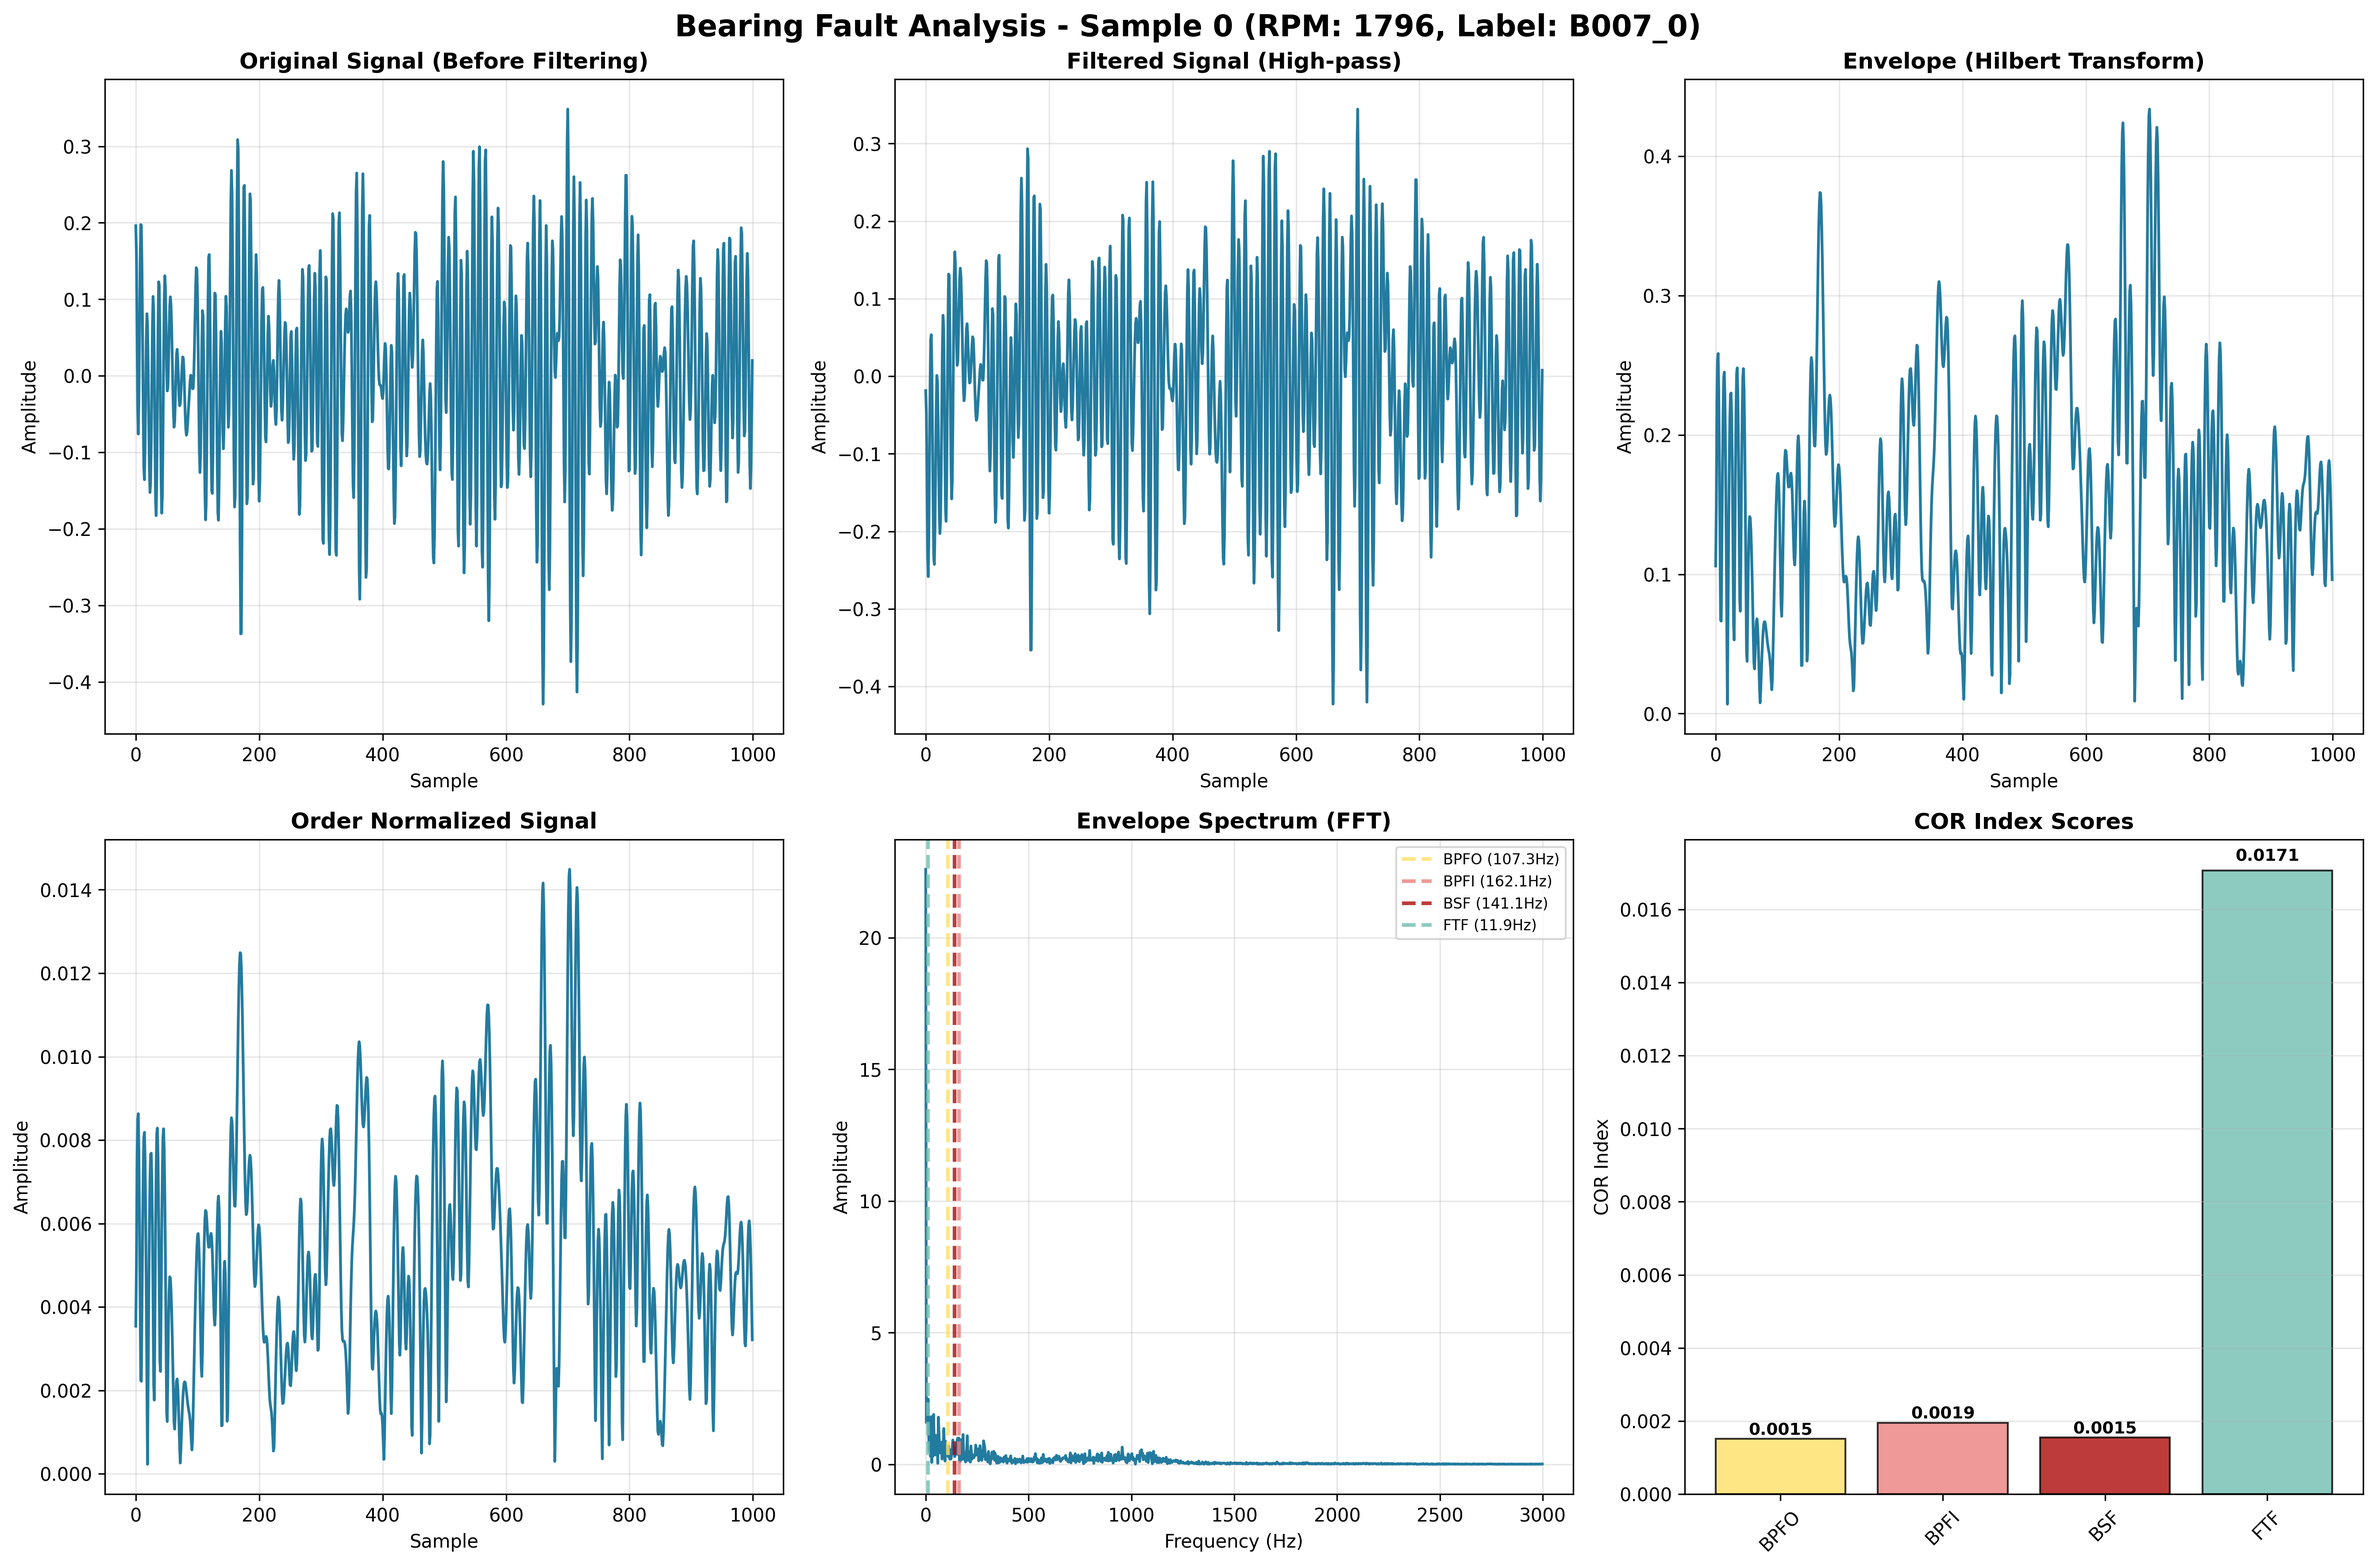
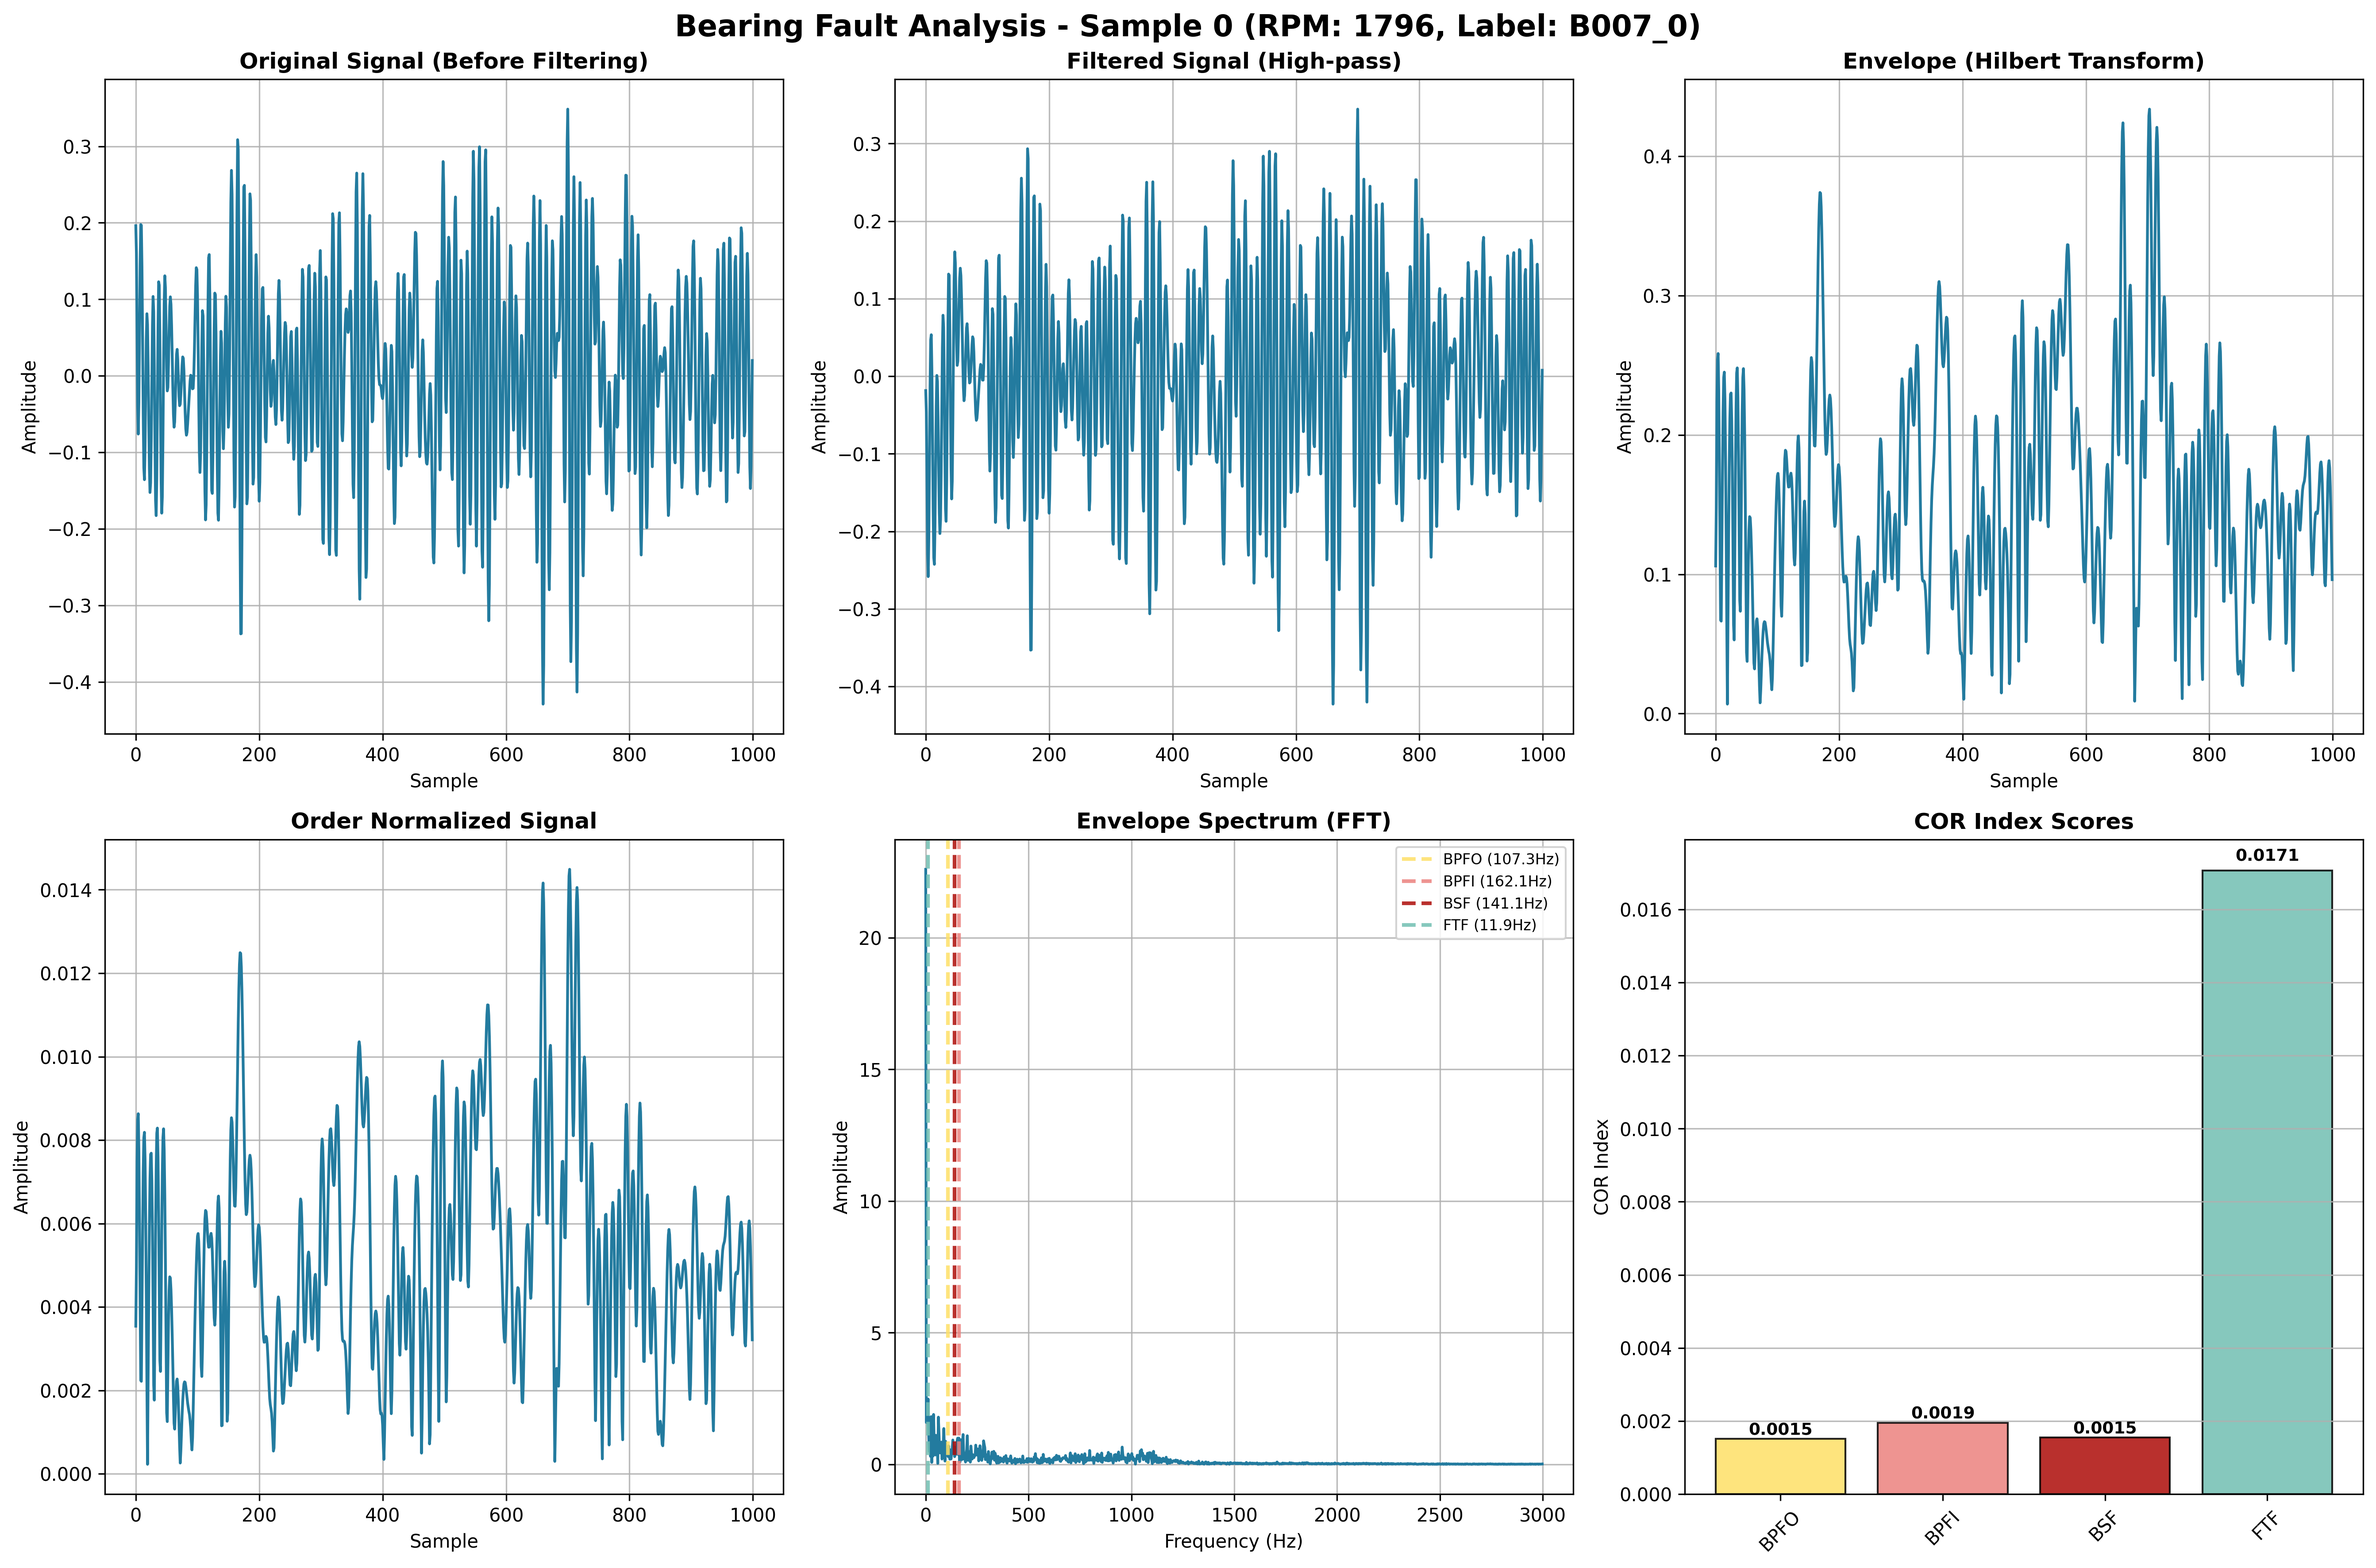
feat:配色修改@透明的

diff --git a/bearing_fault_analysis.py b/bearing_fault_analysis.py
@@ -184,9 +184,9 @@ def plot_results(results, sample_idx=0, original_signal_data=None):
     result = results[sample_idx]
     sample_info = result['sample_info']
     
-    # Specified color scheme
+    # Specified color scheme with 85% opacity
     main_color = '#237B9F'  # For first 5 plots solid lines
-    accent_colors = ['#FEE066', '#EC817E', '#AD0B08', '#71BFB2']  # For bars and dashed lines
+    accent_colors = ['#FEE066D9', '#EC817ED9', '#AD0B08D9', '#71BFB2D9']  # For bars and dashed lines (85% opacity)
     
     # Create 2x3 subplot layout for 6 plots
     fig, axes = plt.subplots(2, 3, figsize=(18, 12))
@@ -204,28 +204,28 @@ def plot_results(results, sample_idx=0, original_signal_data=None):
         axes[0,0].set_title('Original Signal (Before Filtering)', fontweight='bold', color='black')
     axes[0,0].set_xlabel('Sample')
     axes[0,0].set_ylabel('Amplitude')
-    axes[0,0].grid(True, alpha=0.3)
+    axes[0,0].grid(True, alpha=0.85)
     
     # Plot 2: Filtered signal (after high-pass)
     axes[0,1].plot(result['filtered_signal'][:1000], color=main_color, linewidth=1.5)
     axes[0,1].set_title('Filtered Signal (High-pass)', fontweight='bold', color='black')
     axes[0,1].set_xlabel('Sample')
     axes[0,1].set_ylabel('Amplitude')
-    axes[0,1].grid(True, alpha=0.3)
+    axes[0,1].grid(True, alpha=0.85)
     
     # Plot 3: Envelope (Hilbert transform)
     axes[0,2].plot(result['envelope'][:1000], color=main_color, linewidth=1.5)
     axes[0,2].set_title('Envelope (Hilbert Transform)', fontweight='bold', color='black')
     axes[0,2].set_xlabel('Sample')
     axes[0,2].set_ylabel('Amplitude')
-    axes[0,2].grid(True, alpha=0.3)
+    axes[0,2].grid(True, alpha=0.85)
     
     # Plot 4: Order normalized signal
     axes[1,0].plot(result['order_normalized'][:1000], color=main_color, linewidth=1.5)
     axes[1,0].set_title('Order Normalized Signal', fontweight='bold', color='black')
     axes[1,0].set_xlabel('Sample')
     axes[1,0].set_ylabel('Amplitude')
-    axes[1,0].grid(True, alpha=0.3)
+    axes[1,0].grid(True, alpha=0.85)
     
     # Plot 5: Envelope Spectrum (FFT)
     half_len = len(result['frequencies'])//2
@@ -233,25 +233,25 @@ def plot_results(results, sample_idx=0, original_signal_data=None):
     axes[1,1].set_title('Envelope Spectrum (FFT)', fontweight='bold', color='black')
     axes[1,1].set_xlabel('Frequency (Hz)')
     axes[1,1].set_ylabel('Amplitude')
-    axes[1,1].grid(True, alpha=0.3)
+    axes[1,1].grid(True, alpha=0.85)
     
     # Mark fault frequencies on spectrum with accent colors (dashed lines)
     fault_freqs = result['fault_frequencies']
     for i, (name, freq) in enumerate(fault_freqs.items()):
         if freq <= max(result['frequencies'])/2:
-            axes[1,1].axvline(x=freq, color=accent_colors[i % len(accent_colors)], linestyle='--', alpha=0.8, linewidth=2, label=f'{name} ({freq:.1f}Hz)')
-    axes[1,1].legend(loc='upper right', fontsize=8, framealpha=0.8)
+            axes[1,1].axvline(x=freq, color=accent_colors[i % len(accent_colors)], linestyle='--', alpha=0.85, linewidth=2, label=f'{name} ({freq:.1f}Hz)')
+    axes[1,1].legend(loc='upper right', fontsize=8, framealpha=0.85)
     
     # Plot 6: COR Index Scores with accent colors
     cor_scores = result['cor_scores']
     fault_names = list(cor_scores.keys())
     cor_values = list(cor_scores.values())
     
-    bars = axes[1,2].bar(fault_names, cor_values, color=accent_colors[:len(fault_names)], alpha=0.8, edgecolor='black', linewidth=1)
+    bars = axes[1,2].bar(fault_names, cor_values, color=accent_colors[:len(fault_names)], alpha=0.85, edgecolor='black', linewidth=1)
     axes[1,2].set_title('COR Index Scores', fontweight='bold', color='black')
     axes[1,2].set_ylabel('COR Index')
     axes[1,2].tick_params(axis='x', rotation=45)
-    axes[1,2].grid(True, alpha=0.3, axis='y')
+    axes[1,2].grid(True, alpha=0.85, axis='y')
     
     # Add value labels on bars
     for bar, value in zip(bars, cor_values):
